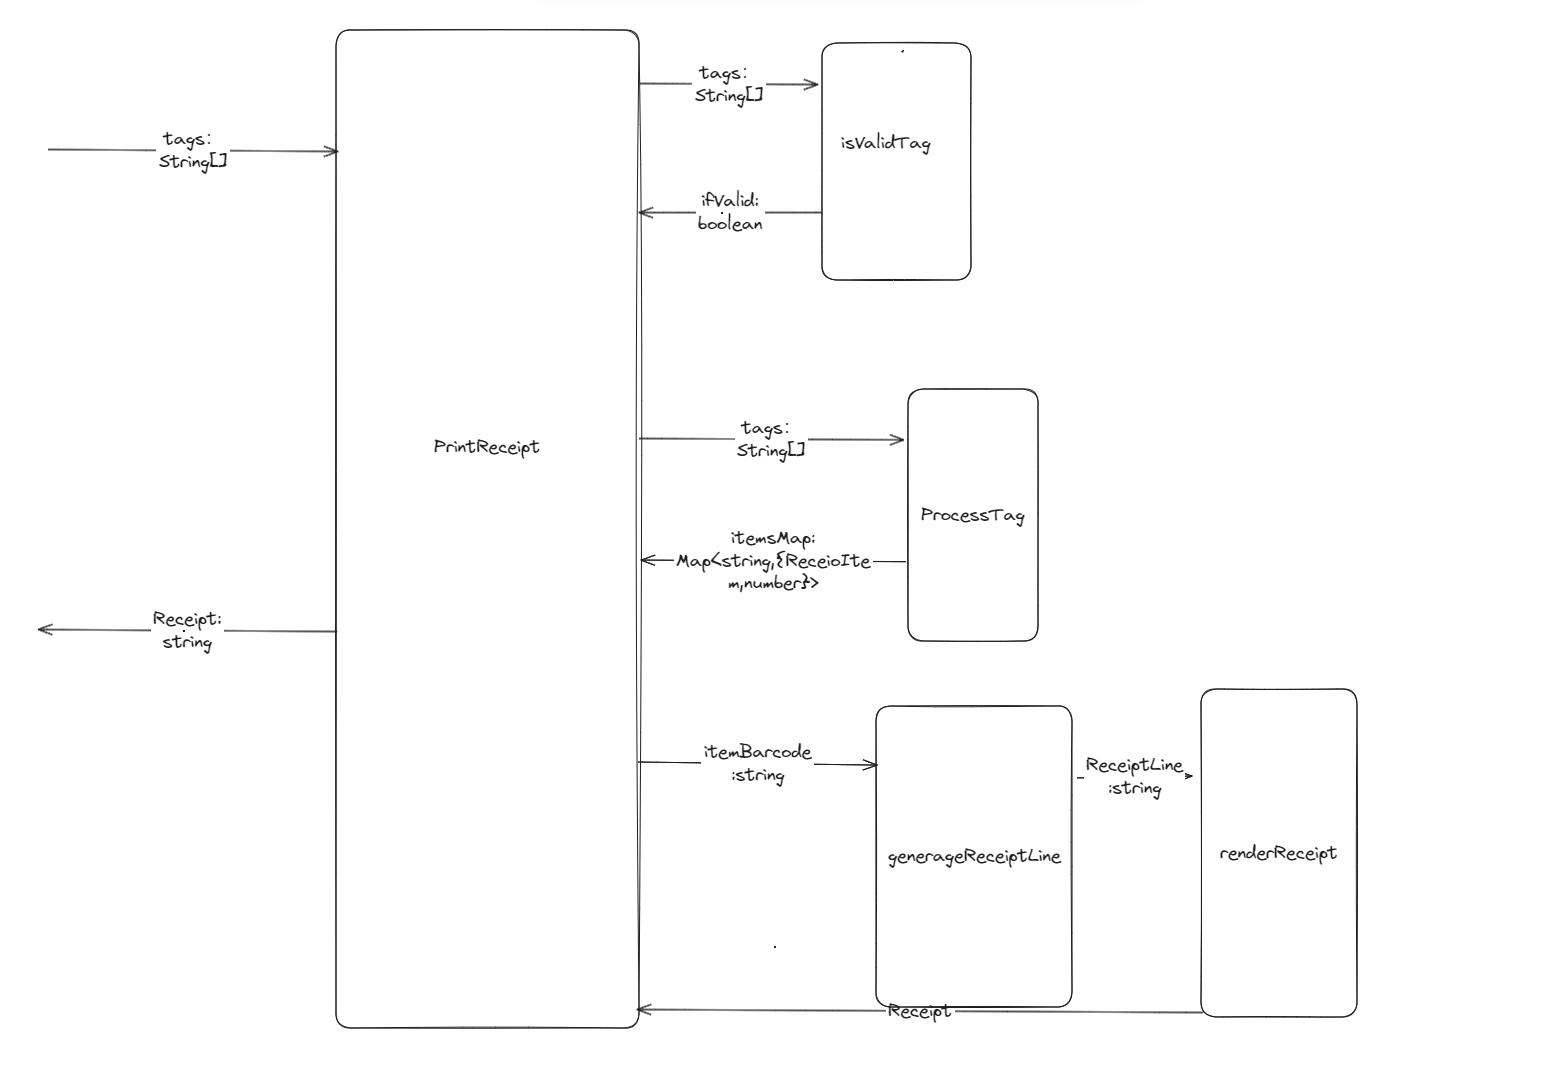
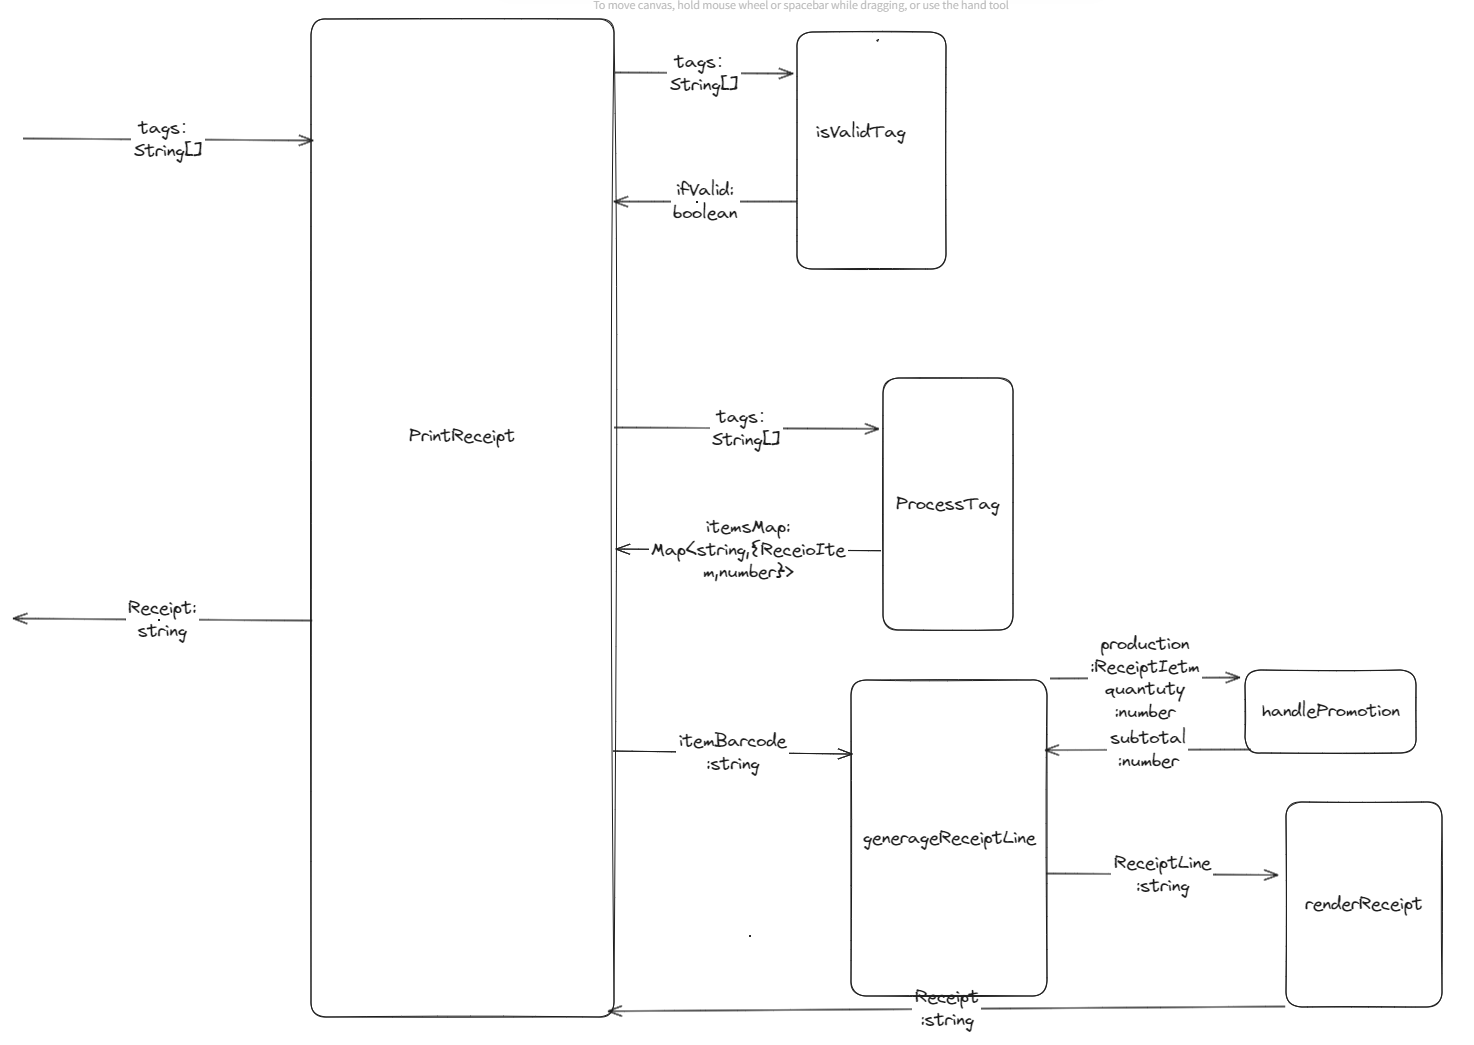
feat(tasking): tasking better

diff --git a/src/PrintReceipt.ts b/src/PrintReceipt.ts
@@ -28,12 +28,19 @@ export function printReceipt(tags: string[]): string {
   for (const itemBarcode in itemsMap) {
     receiptLines.push(generateReceiptLine(itemBarcode))
   }
-
-
   return renderReceipt(receiptLines)
 }
 function generateReceiptLine(barcode: string): string{
   const { product, quantity } = itemsMap[barcode]
+  const subtotal = handlePromotion(product,quantity)
+  total += subtotal
+  let unit = ''
+  if (quantity > 1)
+    unit += (product.unit + 's')
+  const line = `Name：${product.name}，Quantity：${quantity} ${unit}，Unit：${product.price.toFixed(2)}(yuan)，Subtotal：${subtotal.toFixed(2)}(yuan)`
+  return line
+}
+function handlePromotion(product: ReceiptItem,quantity: number): number{
   let subtotal = product.price * quantity
   const promo = promotionList.find(item => item.barcodes.includes(product.barcode))
   // Handle promotions
@@ -41,14 +48,9 @@ function generateReceiptLine(barcode: string): string{
     const freeItems = Math.floor(quantity / 3)
     savings += freeItems * product.price
     subtotal -= freeItems * product.price
+    return subtotal
   }
-
-  total += subtotal
-  let unit = ''
-  if (quantity > 1)
-    unit += (product.unit + 's')
-  const line = `Name：${product.name}，Quantity：${quantity} ${unit}，Unit：${product.price.toFixed(2)}(yuan)，Subtotal：${subtotal.toFixed(2)}(yuan)`
-  return line
+  return subtotal
 
 }
 function isValidTag(tags: string[]): boolean {
@@ -90,18 +92,4 @@ function renderReceipt(receiptLines: string[]): string {
 
   return receiptStr
 }
-
-// const tags = [
-//   'ITEM000001',
-//   'ITEM000001',
-//   'ITEM000001',
-//   'ITEM000001',
-//   'ITEM000001',
-//   'ITEM000003-2.5',
-//   'ITEM000005--1',
-//   'ITEM000005-2',
-// ]
-
-
-// console.log(printReceipt(tags))
 
